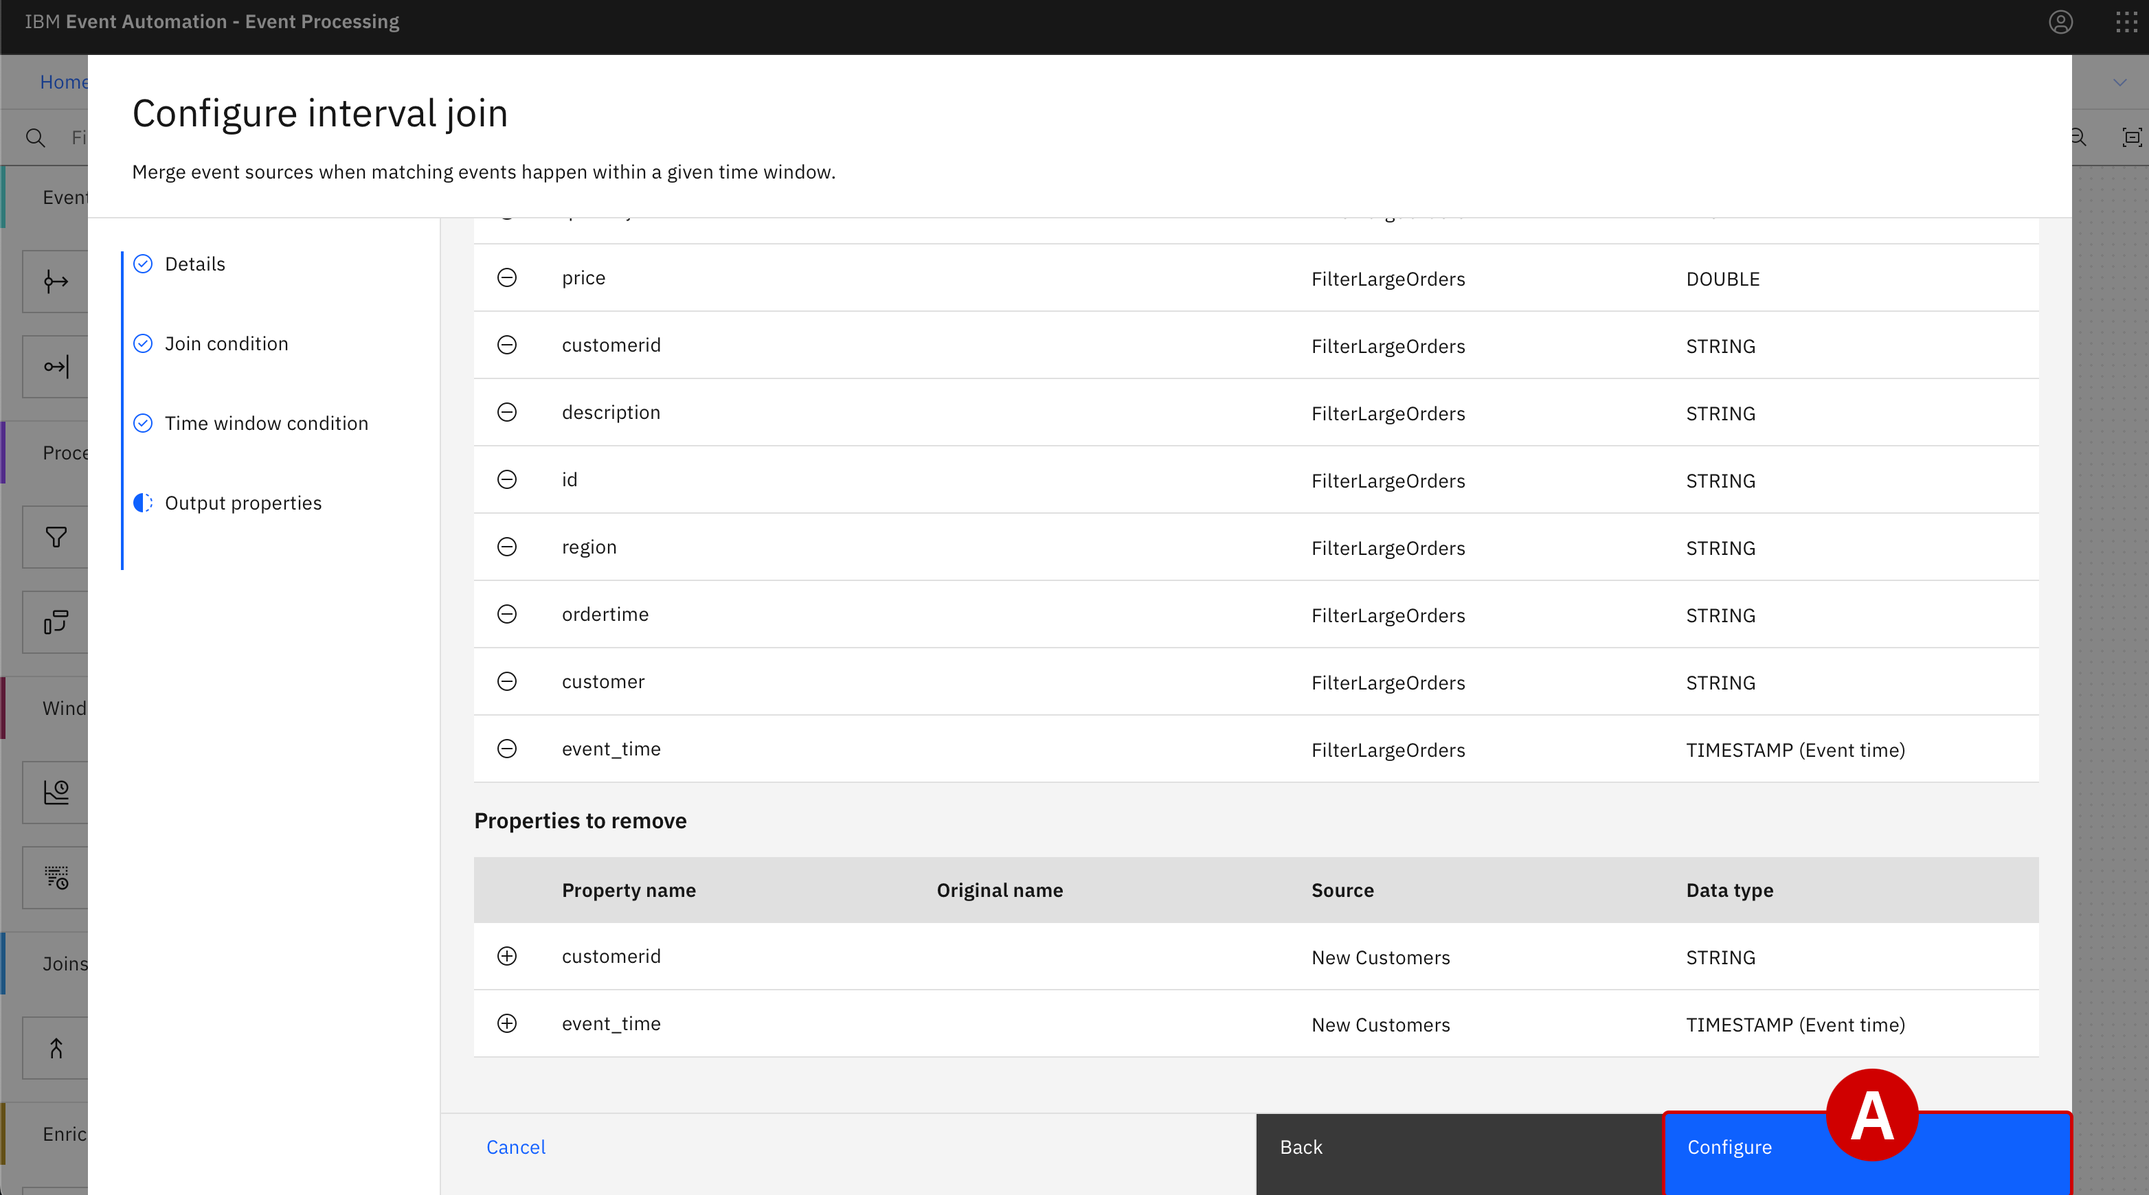
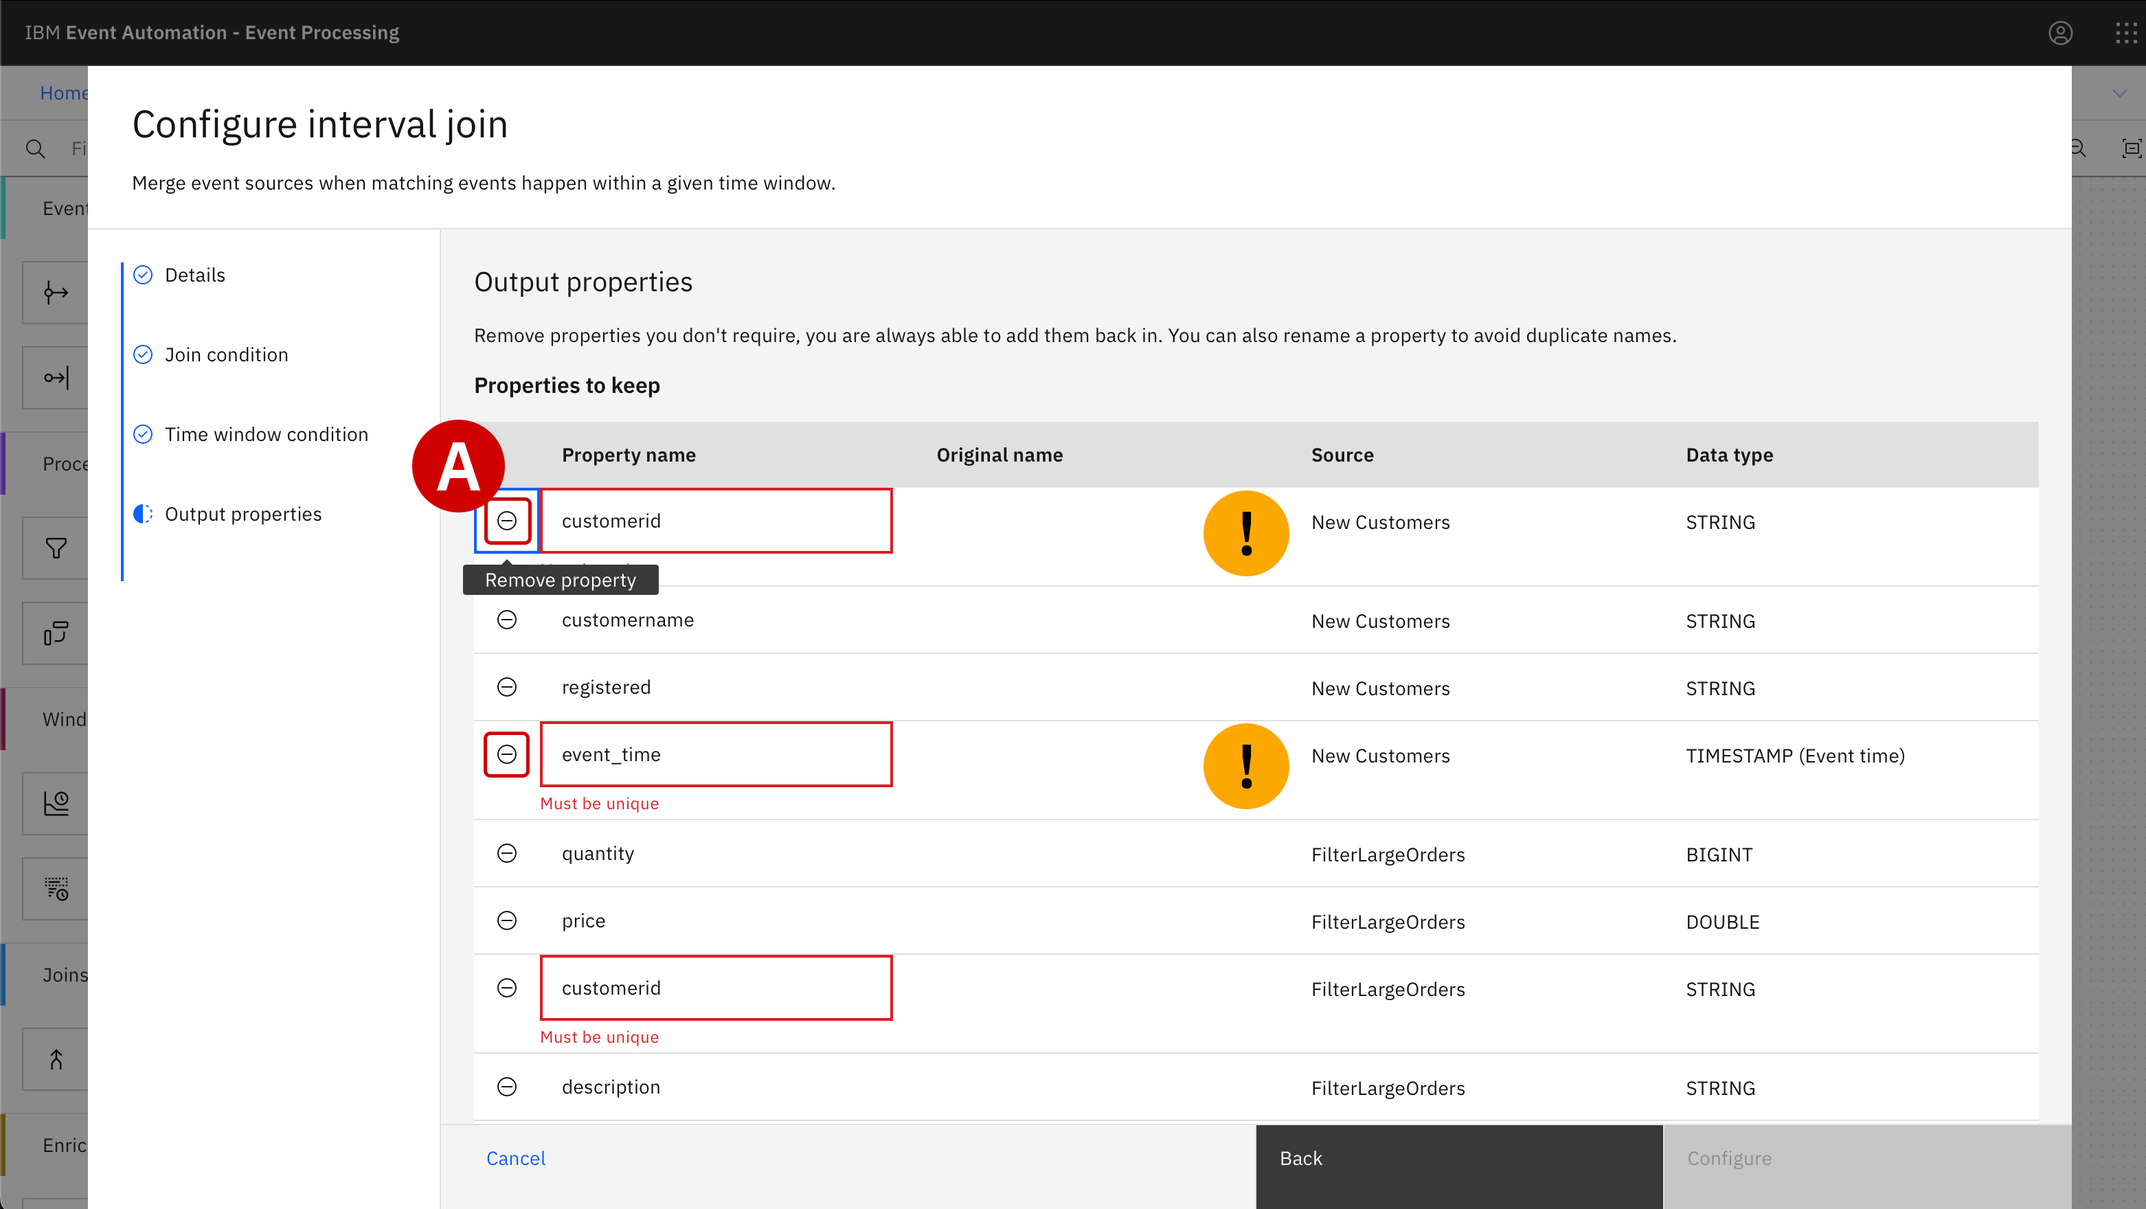
Updates to fix and adapt to new EA version for Client Engineering

diff --git a/index.md b/index.md
@@ -10,17 +10,17 @@ INDEX
 
 **Integration** that weaves together both applications and systems is essential to the success of a modern, digital enterprise.
 ===============================================================================================================================
- 
-In 2024 and beyond, the enterprise organizations that outpace and outcompete in their marketplace will be those that are the most responsive, agile, and adaptable to an ever-shifting and increasingly-connected IT landscape. The success of these organizations will depend on their ability to securely connect, automate, and transform their business at scale — made possible through the integration of real-time messaging, events, and processes.
+
+The enterprise organizations that outpace and outcompete in their marketplace will be those that are the most responsive, agile, and adaptable to an ever-shifting and increasingly-connected IT landscape. The success of these organizations will depend on their ability to securely connect, automate, and transform their business at scale — made possible through the integration of real-time messaging, events, and processes.
 
 Conceptually, it's useful to examine these requirements across three domain areas (which so happen to map to the three pillars of the IBM Integration solution portfolio):
 
 *   **Event-led integration**: For enterprise to discover what is happening within their business and quickly respond to emergent events.
-    
+
 *   **API-led integration**: For enterprise that needs to access and share information, both securely and rapidly.
-    
+
 *   **Messaging and connectivity**: For enterprise to securely and reliable access or update Systems of Record, at scale.
-    
+
 
 [![](images/introduction-1.png)](images/introduction-1.png)
 
@@ -33,68 +33,68 @@ Enterprise organizations (and many IBM clients) are at different stages in their
 
 Despite the range of industries that must confront the challenges of event-driven architectures and integration, there are four common themes that regularly emerge in conversations with prospective clients:
 
-  
+
 
 1.  **Real-time access for meeting customer demands and taking action in the moment.**
-    
+
     Event-driven enterprises must be optimized, timely, adaptable, and proactive. Event-driven integration and automation provides continuous awareness for a business about the state of their systems and services. It drives automation that responds to events for any situation and enables a more adaptable approach to situations evolving in real-time.    
-    
+
     **IBM Event Automation** puts business events to work by making it possible for users to detect unfolding situations and make automated decisions in real-time. The offering consists of three core, composable capabilities:
-    
+
     *   **Event Streams**: _"Event distribution."_ Collect real-time business events data streams using an enterprise-grade Apache Kafka distribution. Event sources can include Kafka Connect (IBM MQ or databases), REST APIs, and direct integrations (IBM App Connect, Change Data Capture, and more).
-        
+
     *   **Event Endpoint Management**: _"Event discovery."_ Build a self-service catalog of event sources for other users within the business to securely browse and leverage.
-        
+
     *   **Event Processing**: _"Event processing."_ Define business situations requiring automated responses ahead of time, using an intuitive authoring canvas that can be invoked in real-time to automate decision making and take decisive actions. To take raw events and make them contextually relevant to business users, Event Processing can: filter and transform event properties; combine events to identify novel patterns over continuous time windows; and aggregate events to analyze trends or detect anomalies.
 
 
 2.  **Multiplicity of data sources, all of which a business may need access to.**
-    
+
     The ever-increasing number of data sources that an enterprise organization connects to provides an expanding surface area for malicious agents to exploit. Moreover, maintaining and managing these data sources becomes increasingly complex as more endpoints are connected to an enterprise's IT estate.
-    
-    
+
+
 3.  **Secure access across the organization.**
-    
+
     Every enterprise has a plethora of unique APIs that are continuously updating. APIs are a specific vector that attackers can exploit for gaining unauthorized access to systems and data. Two-thirds of cloud incidents are due to misconfigured API endpoints.
 
     <details>
     <summary><span style="color:lightblue">API-LED INTEGRATION SOLUTIONS FROM IBM</span></summary>
 
     <p>The combined challenges of managing across a multiplicity of data sources and securing access to that data is addressed by the core competencies of IBM App Connect and IBM App Connect Enterprise.</p>
-    
+
     <p>IBM App Connect allows clients to quickly build and test integration flows with frequently-used authoring tools. It securely connects with hundreds of cloud and on-premises applications via pre-built smart connectors and templates. App Connect's high performance transformation engine virtually supports any-to-any data formats (augmented with AI tooling to assist non-specialists.) It is used to easily deploy integrations with visibility into flow health and performance, for managing across hybrid cloud environments.</p>
-    
+
     <p> · IBM App Connect supports over 200 OOTB connectors and templates for jumpstarting integration. Automation Explorer provides a [community for connectors and templates](https://explorer.automation.ibm.com). Clients can build their own bespoke systems connectors using an [accelerated Connector Development Kit](https://explorer.automation.ibm.com/cdk).</p>
-        
+
     <p> · Once connections have been established to the endpoints across an enterprise, API-fed data must be shared (externally or internally) in order to be acted upon. From the moment these APIs are created, they must be managed and secured by a governance and control framework; it is here that API management plays a critical role. </p>
-      
-    
+
+
     <p> · API-led integration is the cutting edge way to integrate applications and data by leveraging reusable REST APIs. Via IBM App Connect, the API-led integration approach brings together the disciplines of API management and API integration, across on-premises and cloud.</p>
-    
+
     <p> · First, clients build an integration flow for their APIs using an OpenAPI editor for authoring gateway policies that will govern OpenAPI documents. IBM's all-in-one flow editor provides a unified API authoring experience that brings together "application integration" and "API management" into a single tool.</p>
-        
+
     <p> · By contrast, other integration products require different tools, with differing experiences, to be performed by different users. IBM App Connect makes it possible to define an OpenAPI, build an integration flow, secure it with gateway policies, as well as manage and publish it to a developer portal for re-use — all within a unified editor.</p>
-        
+
     <p> · IBM App Connect's partnership with [Noname Security](https://nonamesecurity.com) helps identify undiscovered API exposure and API Connect's integration with [IBM DataPower Gateway](https://www.ibm.com/docs/en/cloud-private/3.1.2?topic=services-datapower-gateway) provides real-time threat and anomaly detection using AI. Clients can utilize [StepZen](https://stepzen.com) to rapidly federate a variety of back-end data sources using highly responsive GraphQL APIs (declaratively defined, developer-friendly).</p>
-        
+
     </details>
-    
+
 
 4.  **Access to a diverse range of development and runtime execution platforms.**
-    
+
     Endpoints requiring access may include cloud-native application frameworks (containers and microservices), public cloud infrastructure, software-as-a-service (SaaS) applications, software-defined or hyperconverged infrastructure configuration, on-premises implementations of public cloud services, or consumption-billed infrastructure resources. This is not an exhaustive list.
-    
+
     <details>
     <summary><span style="color:lightblue">MESSAGING AND CONNECTIVITY SOLUTIONS FROM IBM</span></summary>    
-    
+
     <p>The challenges of integrating across a diverse range of messaging and connectivity endpoints is addressed by a range of IBM technologies: IBM Cloud Pak for Integration, IBM App Connect + API Connect software, and IBM App Connect + API Connect as a Service (on IBM Cloud.)  </p>
-    
+
     <p>IBM Cloud Pak for Integration runs atop Red Hat OpenShift: a vendor-agnostic, containerization platform that is truly hybrid cloud — deployable on nearly every on-premises and cloud infrastructure topology. The offering packages together: API management, application integration, end-to-end security, enterprise messaging, event streaming, and high speed data transfers. It provides a unified place for developers, lines of business, and IT operators to catalog, document, and manage services through a single portal. Likewise, all of these services are bundled and licensed together; there is no need to decide what capabilities are required up-front and clients only pay for how much integration is deployed.</p>
-    
+
     <p>"Integration Assemblies" simplify and automate the deployment of new integrations using the IBM Cloud Pak for Integration. Users can create and manage multiple integration instances as a single object. These instances can be immediately granted high availability (HA) if required. Declarative deployments reduce the complexity of manual integration tasks and rapidly increase the rate at which a business can make new API deployments.</p>
-    
+
     <p>"Operator-deployed container images" take advantage of Red Hat OpenShift's powerful Operators, reducing the complexity of deploying containerized applications, updating images without disruption, and increasing the resiliency of live containers.</p>
-    
+
     </details>
 
 * * *

diff --git a/3/index.md b/3/index.md
@@ -14,7 +14,7 @@ Configuring the solution with Event Processing no-code editors
 
 * * *
 
-Using IBM Event Processing no-code editors to configure the solution
+Using IBM Event Processing no-code editor to configure the solution
 ====================================================================
 
 
@@ -150,7 +150,7 @@ If these conditions can be met, the marketing team will be able to create an act
     *   When ready, click **Next** to proceed
 
 
-    _Note that this is the same sample schema you supplied when configuring the event source within EEM in Module 2._
+    _Note that this is the same sample message you supplied when configuring the event source within EEM in Module 2._
 
     ```json
     {
@@ -295,7 +295,7 @@ If these conditions can be met, the marketing team will be able to create an act
 
     ### Filtering event sources to match specific criteria
 
-    With the event source fully configured within EP, you can now begin tailoring the event processing flow to filter on orders where the value exceeds **$25** USD.
+    With the event sources fully configured within EP, you can now begin tailoring the event processing flow to filter on orders where the value exceeds **$25** USD.
 
     ---
 
@@ -471,7 +471,11 @@ If these conditions can be met, the marketing team will be able to create an act
 
     ---
 
-35. Within the _Output properties_ step, locate the `customerid` field. There are **two** (duplicate) copies of the same field at this time. Your objective will be to delete **ONE** of the two duplicate records, where the _Source_ is labelled as `New Customers`. Preserve the record where _Source_ is labelled as `FilterLargeOrders`.
+35. The _Matching Criteria_ step allows you to determine how the two input streams are combined, and which events are included in the result. In this case will use the default settings for the **join type** section, which results in a *Inner join* type. Click **Next**
+
+    [![](../images/3-35.png)](../images/3-35.png)<br><br>
+
+36. Within the _Output properties_ step, locate the `customerid` field. There are **two** (duplicate) copies of the same field at this time. Your objective will be to delete **ONE** of the two duplicate records, where the _Source_ is labelled as `New Customers`. Preserve the record where _Source_ is labelled as `FilterLargeOrders`.
 
     *   Click the round `—` sign to the left of the first `customerid` row, where the _Source_ is labelled as "New Customers", to remove the duplicate
 
@@ -486,11 +490,11 @@ If these conditions can be met, the marketing team will be able to create an act
 
     _When reviewing Output properties for duplicate fields, take note of the table's **Source** column. Duplicates will be produced by both the `New Customers` and `FilterLargeOrders` nodes. Only remove duplicates where the **Source** is listed as `New Customers`._
 
-    [![](../images/3-35a.png)](../images/3-35a.png)<br><br><br>
+    [![](../images/3-36a.png)](../images/3-36a.png)<br><br><br>
 
 
 
-36. Repeat the procedure for the `event_time` field, which is also duplicated by the JOIN:
+37. Repeat the procedure for the `event_time` field, which is also duplicated by the JOIN:
 
     *   Delete the `event_time` row where the _Source_ column is labelled as "New Customers"
 
@@ -500,9 +504,9 @@ If these conditions can be met, the marketing team will be able to create an act
 
 
 
-    [![](../images/3-36a.png)](../images/3-36a.png)
+    [![](../images/3-37a.png)](../images/3-37a.png)
 
-    [![](../images/3-36b.png)](../images/3-36b.png)<br><br><br>
+    [![](../images/3-37b.png)](../images/3-37b.png)<br><br><br>
 
 
 * * *

diff --git a/2/index.md b/2/index.md
@@ -228,7 +228,7 @@ Before the event stream data can be browsed as part of a self-service catalog, t
 
 
 
-15. Leave the _Controls_ tab empty (`No data`) and click **Next** to proceed.
+15. Leave the _Controls_ tab empty (`No data`) and click **Save** to proceed.
 
     About **Controls**: You can add controls to options so that you have greater management over how event data is processed by the Event Gateway. For instance, you can use the approval control to manage who can subscribe to your event endpoint, the schema filtering control ensures message structure consistency, and redaction hides sensitive data.
 
@@ -242,8 +242,7 @@ Before the event stream data can be browsed as part of a self-service catalog, t
 
     *   Within the blue _Option Status_ field, click the **Publish** button
 
-    *   Further down the panel, under the _Available gateways_ field, verify that the `egw-group` option is pre-selected.
-    Note: If you see a message in this panel stating that the gateway is not available or pending validation, click ***Cancel***, refresh the browser page (F5), and try again the **Publish** action on the **Option** definition.
+    *   Further down the panel, under the _Available gateways_ field, verify that the `egw-group` option is pre-selected.<br/>**Note**: If you see a message in this panel stating that the gateway is not available or pending validation, click ***Cancel***, refresh the browser page (F5), and try again the **Publish** action on the **Option** definition.
 
     *   When ready, click **Publish**\[C\] to finalize publication of the `STUDENTXX.CUSTOMERS` topic
 
@@ -352,8 +351,7 @@ Before the event stream data can be browsed as part of a self-service catalog, t
 
     *   Within the blue _Option Status_ field, click the **Publish** button
 
-    *   Further down the panel, under the _Available gateways_ field, verify that the `egw-group` option is pre-selected
-    Note: If you see a message in this panel stating that the gateway is not available or pending validation, click ***Cancel***, refresh the browser page (F5), and try again the **Publish** action on the **Option** definition.
+    *   Further down the panel, under the _Available gateways_ field, verify that the `egw-group` option is pre-selected.<br/>**Note**: If you see a message in this panel stating that the gateway is not available or pending validation, click ***Cancel***, refresh the browser page (F5), and try again the **Publish** action on the **Option** definition.
 
     *   When ready, click **Publish** to finalize publication of the `STUDENTXX.ORDERS` topic
 
@@ -445,7 +443,7 @@ Before the event stream data can be browsed as part of a self-service catalog, t
 Next Steps
 ==========
 
-In the following module, Focus' marketing team will use _IBM Event Processing_ to correlate newly-created customer accounts with orders totaling over $25 within a 24-hour time window.
+In the following module, Focus' marketing team will use _IBM Event Processing_ to correlate newly-created customer accounts with orders for a given ammount, within a 24-hour time window.
 
 [Previous: Creating an event stream from MQ data using Event Streams](../1/index.md)  
 

diff --git a/4/index.md b/4/index.md
@@ -68,7 +68,7 @@ When new events are detected which match the marketing team's promotional criter
 
 
 
-6.  If prompted, select the **Accept certificates** toggle to trust all security certificates issued by the event stream source.
+6.  If prompted (it could happen or not, depending on the cluster configuration ), select the **Accept certificates** toggle to trust all security certificates issued by the event stream source.
 
     When ready, click **Next** .
 
@@ -130,12 +130,13 @@ When new events are detected which match the marketing team's promotional criter
 
     *   It will take a few moments for the events to begin populating the table
 
-    *   After several hours, the table will be populated with pages of entries (cycle through these using the arrows or drop-down page selector)
+    *   The table will be populated with pages of entries (cycle through these using the arrows or drop-down page selector)
 
     *   Continue to verify the detected events until satisfied with the historical event data results
 
     *   When ready, stop the flow by clicking the **Stop** button in the top-right corner of the page
 
+    *   Additionally, you could go to the Event Streams UI and check the contents of the STUDENTXX.LOYALTY.APP. It should contain the set of events produced during the flow run  
 
     <details>
     <summary><span style="color:orange">TROUBLESHOOTING — UNABLE TO CONNECT TO RESULTS</span></summary>
@@ -152,6 +153,7 @@ When new events are detected which match the marketing team's promotional criter
 
     [![](../images/es-final-output.png)](../images/es-final-output.png)<br><br><br>
 
+    *   Additionally, you go to the Event Streams UI and check the contents of the STUDENTXX.LOYALTY.APP. It should contain the
 
 * * *
 
